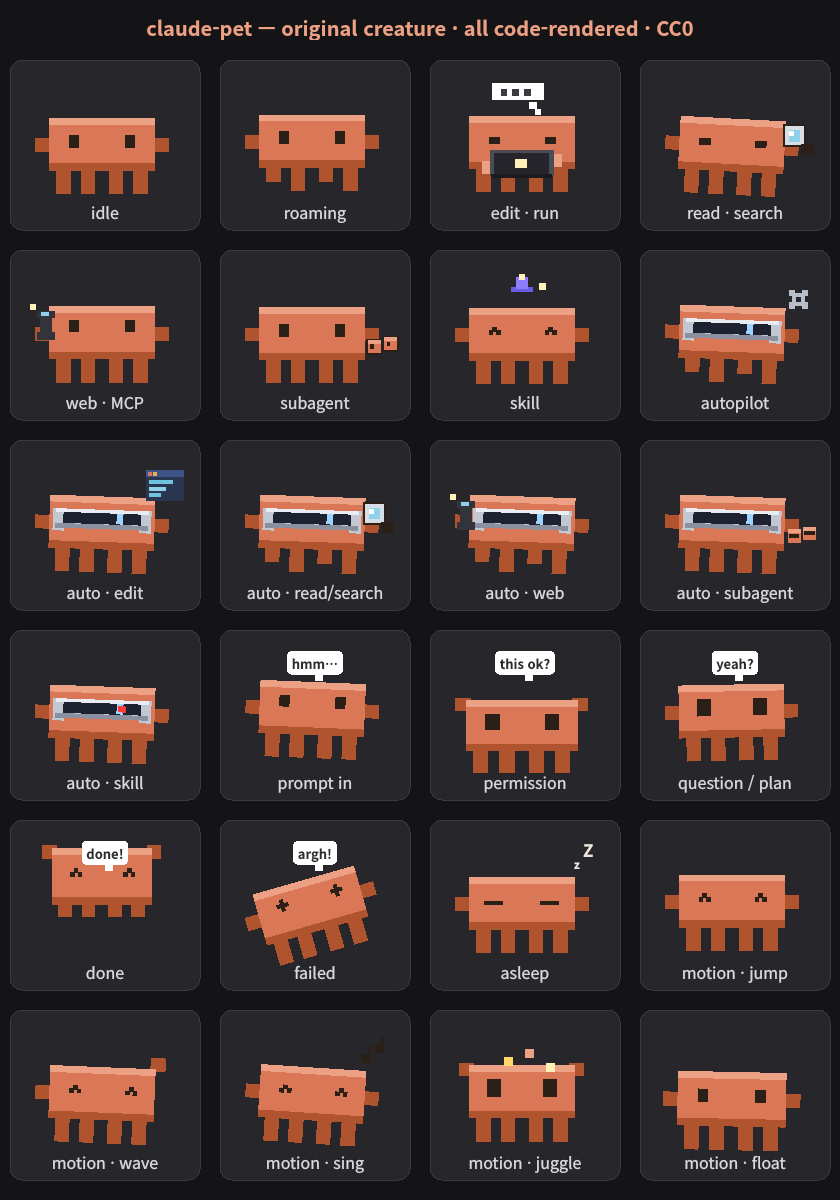
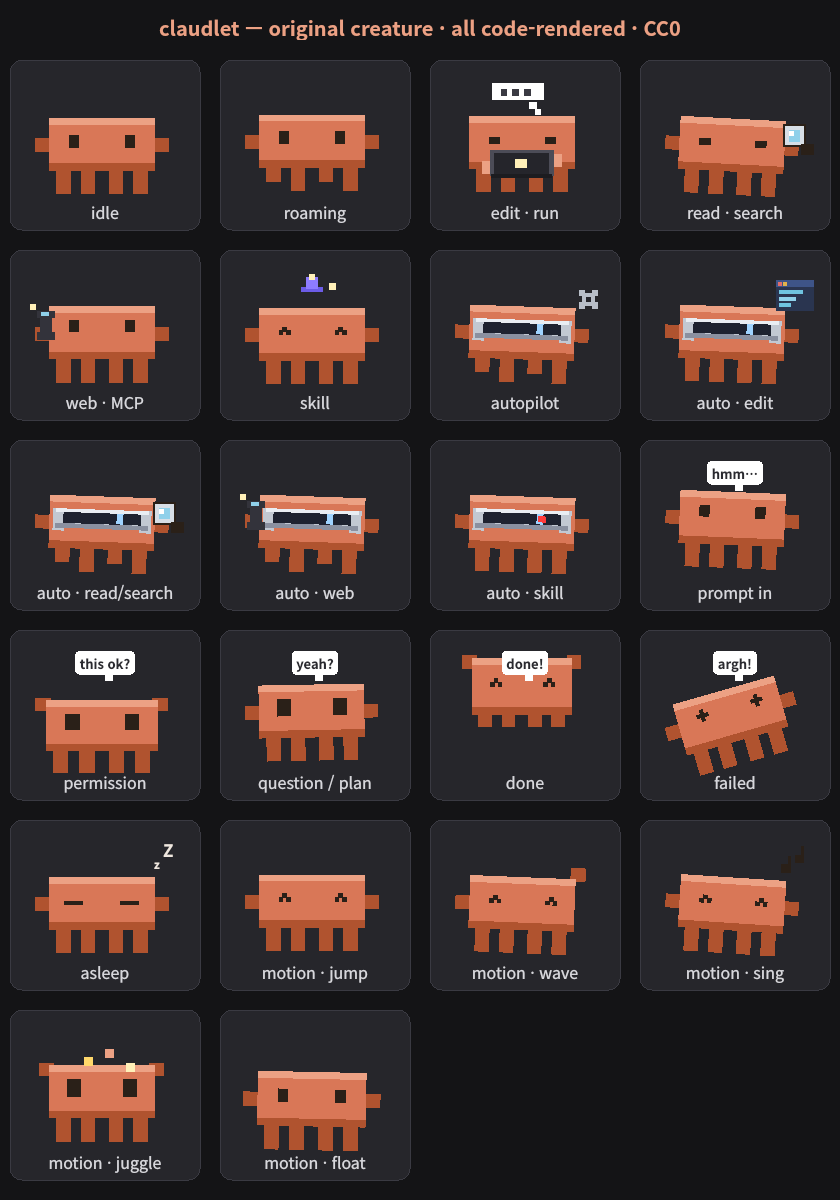
docs: regenerate state sheet without the subagent tile
Subagents are now represented by the follower companion, not a main-creature
state (work_agent/auto_agent are no longer triggered), so drop those two tiles
from the sprite sheet — the pet would never actually show them. Regenerated
EN + KO sheets.

diff --git a/src/claudlet/creature.py b/src/claudlet/creature.py
@@ -632,9 +632,11 @@ if __name__ == "__main__":
     labels = LABELS[sheet_lang]
     TITLE = {"ko": "claudlet — 오리지널 크리처 · 전부 코드 렌더 · CC0",
              "en": "claudlet — original creature · all code-rendered · CC0"}
+    # NOTE: work_agent / auto_agent are omitted — subagents are now shown by the
+    # follower companion, not a main-creature state, so they'd never appear here.
     order = ["idle", "walk", "work_computer", "work_search", "work_web",
-             "work_agent", "work_skill", "autopilot",
-             "auto_computer", "auto_search", "auto_web", "auto_agent", "auto_skill",
+             "work_skill", "autopilot",
+             "auto_computer", "auto_search", "auto_web", "auto_skill",
              "thinking", "attention", "asking",
              "celebrate", "error", "sleeping",
              "jump", "wave", "sing", "juggle", "float"]